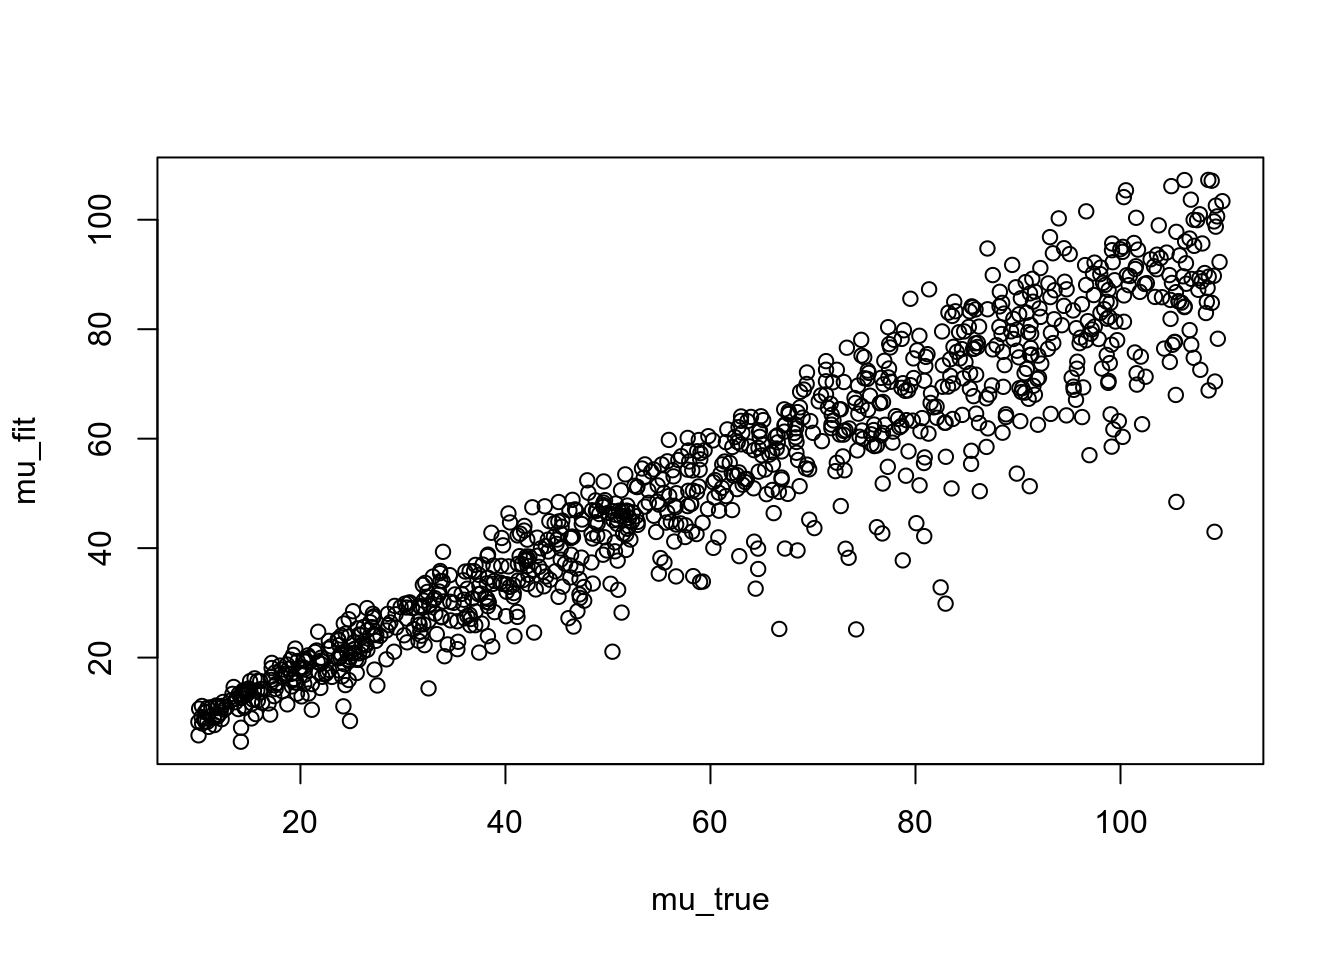
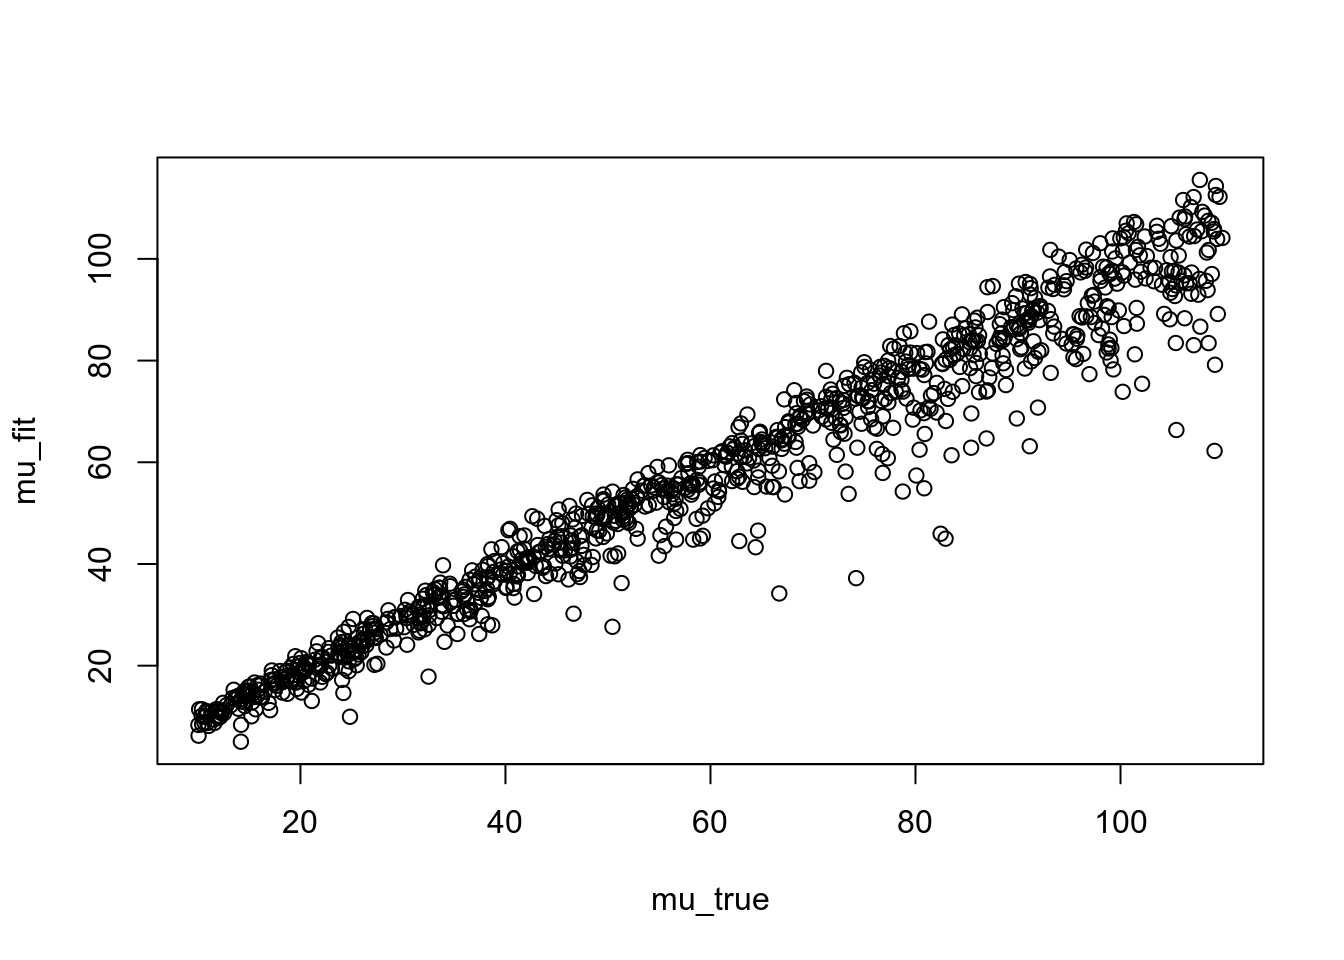
Build site.

diff --git a/docs/experiment_nb_means2.html b/docs/experiment_nb_means2.html
@@ -509,10 +509,10 @@ unnamed-chunk-3
 <div class="panel panel-default">
 <div class="panel-heading">
 <p class="panel-title">
-<a data-toggle="collapse" data-parent="#workflowr-checks" href="#strongRepositoryversionstrongahrefhttpsgithubcomzihao12ebpmfdemotreec5fbd8ff15811a03b1a968868c0dfaf10c2e35b6targetblankc5fbd8fa"> <span class="glyphicon glyphicon-ok text-success" aria-hidden="true"></span> <strong>Repository version:</strong> <a href="https://github.com/zihao12/ebpmf_demo/tree/c5fbd8ff15811a03b1a968868c0dfaf10c2e35b6" target="_blank">c5fbd8f</a> </a>
+<a data-toggle="collapse" data-parent="#workflowr-checks" href="#strongRepositoryversionstrongahrefhttpsgithubcomzihao12ebpmfdemotree082977a911c171b78e4c29923f1a62e474a04aa4targetblank082977aa"> <span class="glyphicon glyphicon-ok text-success" aria-hidden="true"></span> <strong>Repository version:</strong> <a href="https://github.com/zihao12/ebpmf_demo/tree/082977a911c171b78e4c29923f1a62e474a04aa4" target="_blank">082977a</a> </a>
 </p>
 </div>
[2 lines of base64/hex data omitted]
 <div class="panel-body">
 <p>
 Great! You are using Git for version control. Tracking code development and connecting the code version to the results is critical for reproducibility. The version displayed above was the version of the Git repository at the time these results were generated. <br><br> Note that you need to be careful to ensure that all relevant files for the analysis have been committed to Git prior to generating the results (you can use <code>wflow_publish</code> or <code>wflow_git_commit</code>). workflowr only checks the R Markdown file, but you know if there are other scripts or data files that it depends on. Below is the status of the Git repository when the results were generated:
@@ -558,7 +558,6 @@ Unstaged changes:
     Modified:   analysis/nmf_sparse13.Rmd
     Modified:   analysis/nmf_sparse14.Rmd
     Modified:   analysis/nmf_sparse16.Rmd
-    Modified:   script/nb_means.R
 
 </code></pre>
 <p>
@@ -597,6 +596,40 @@ Message
 </tr>
 </thead>
 <tbody>
+<tr>
+<td>
+Rmd
+</td>
+<td>
+<a href="https://github.com/zihao12/ebpmf_demo/blob/082977a911c171b78e4c29923f1a62e474a04aa4/analysis/experiment_nb_means2.Rmd" target="_blank">082977a</a>
+</td>
+<td>
+zihao12
+</td>
+<td>
+2020-04-03
+</td>
+<td>
+run more iterations in experiment_nb_means2.Rmd
+</td>
+</tr>
+<tr>
+<td>
+html
+</td>
+<td>
+<a href="https://rawcdn.githack.com/zihao12/ebpmf_demo/be0a7c39b2cd43288a1b9d0819bfbb05fa588c3c/docs/experiment_nb_means2.html" target="_blank">be0a7c3</a>
+</td>
+<td>
+zihao12
+</td>
+<td>
+2020-04-03
+</td>
+<td>
+Build site.
+</td>
+</tr>
 <tr>
 <td>
 Rmd
@@ -903,7 +936,7 @@ set.seed(123)</code></pre>
 <!-- ```{r cache=TRUE, autodep=TRUE, message=FALSE, warning=FALSE} -->
 <!-- exper <- exper_nb_means(K = 10, p = 99, maxiter = 100, verbose = FALSE) -->
 <!-- ``` -->
-<pre class="r"><code>exper &lt;- exper_nb_means(K = 10, p = 999, maxiter = 100, verbose = FALSE)</code></pre>
+<pre class="r"><code>exper &lt;- exper_nb_means(K = 10, p = 999, maxiter = 1000, verbose = FALSE)</code></pre>
 <ul>
 <li>There are optimization issues when initializing from truth, or running too many iterations …</li>
 </ul>
@@ -946,6 +979,17 @@ Date
 </tr>
 </thead>
 <tbody>
+<tr>
+<td>
+<a href="https://github.com/zihao12/ebpmf_demo/blob/be0a7c39b2cd43288a1b9d0819bfbb05fa588c3c/docs/figure/experiment_nb_means2.Rmd/unnamed-chunk-4-1.png" target="_blank">be0a7c3</a>
+</td>
+<td>
+zihao12
+</td>
+<td>
+2020-04-03
+</td>
+</tr>
 <tr>
 <td>
 <a href="https://github.com/zihao12/ebpmf_demo/blob/820e8bb21098d9680bb59a06e9c868010cd7aaed/docs/figure/experiment_nb_means2.Rmd/unnamed-chunk-4-1.png" target="_blank">820e8bb</a>
@@ -1014,6 +1058,17 @@ Date
 <tbody>
 <tr>
 <td>
+<a href="https://github.com/zihao12/ebpmf_demo/blob/be0a7c39b2cd43288a1b9d0819bfbb05fa588c3c/docs/figure/experiment_nb_means2.Rmd/unnamed-chunk-5-1.png" target="_blank">be0a7c3</a>
+</td>
+<td>
+zihao12
+</td>
+<td>
+2020-04-03
+</td>
+</tr>
+<tr>
+<td>
 <a href="https://github.com/zihao12/ebpmf_demo/blob/820e8bb21098d9680bb59a06e9c868010cd7aaed/docs/figure/experiment_nb_means2.Rmd/unnamed-chunk-5-1.png" target="_blank">820e8bb</a>
 </td>
 <td>
@@ -1077,6 +1132,17 @@ Date
 </tr>
 </thead>
 <tbody>
+<tr>
+<td>
+<a href="https://github.com/zihao12/ebpmf_demo/blob/be0a7c39b2cd43288a1b9d0819bfbb05fa588c3c/docs/figure/experiment_nb_means2.Rmd/unnamed-chunk-6-1.png" target="_blank">be0a7c3</a>
+</td>
+<td>
+zihao12
+</td>
+<td>
+2020-04-03
+</td>
+</tr>
 <tr>
 <td>
 <a href="https://github.com/zihao12/ebpmf_demo/blob/820e8bb21098d9680bb59a06e9c868010cd7aaed/docs/figure/experiment_nb_means2.Rmd/unnamed-chunk-6-1.png" target="_blank">820e8bb</a>
